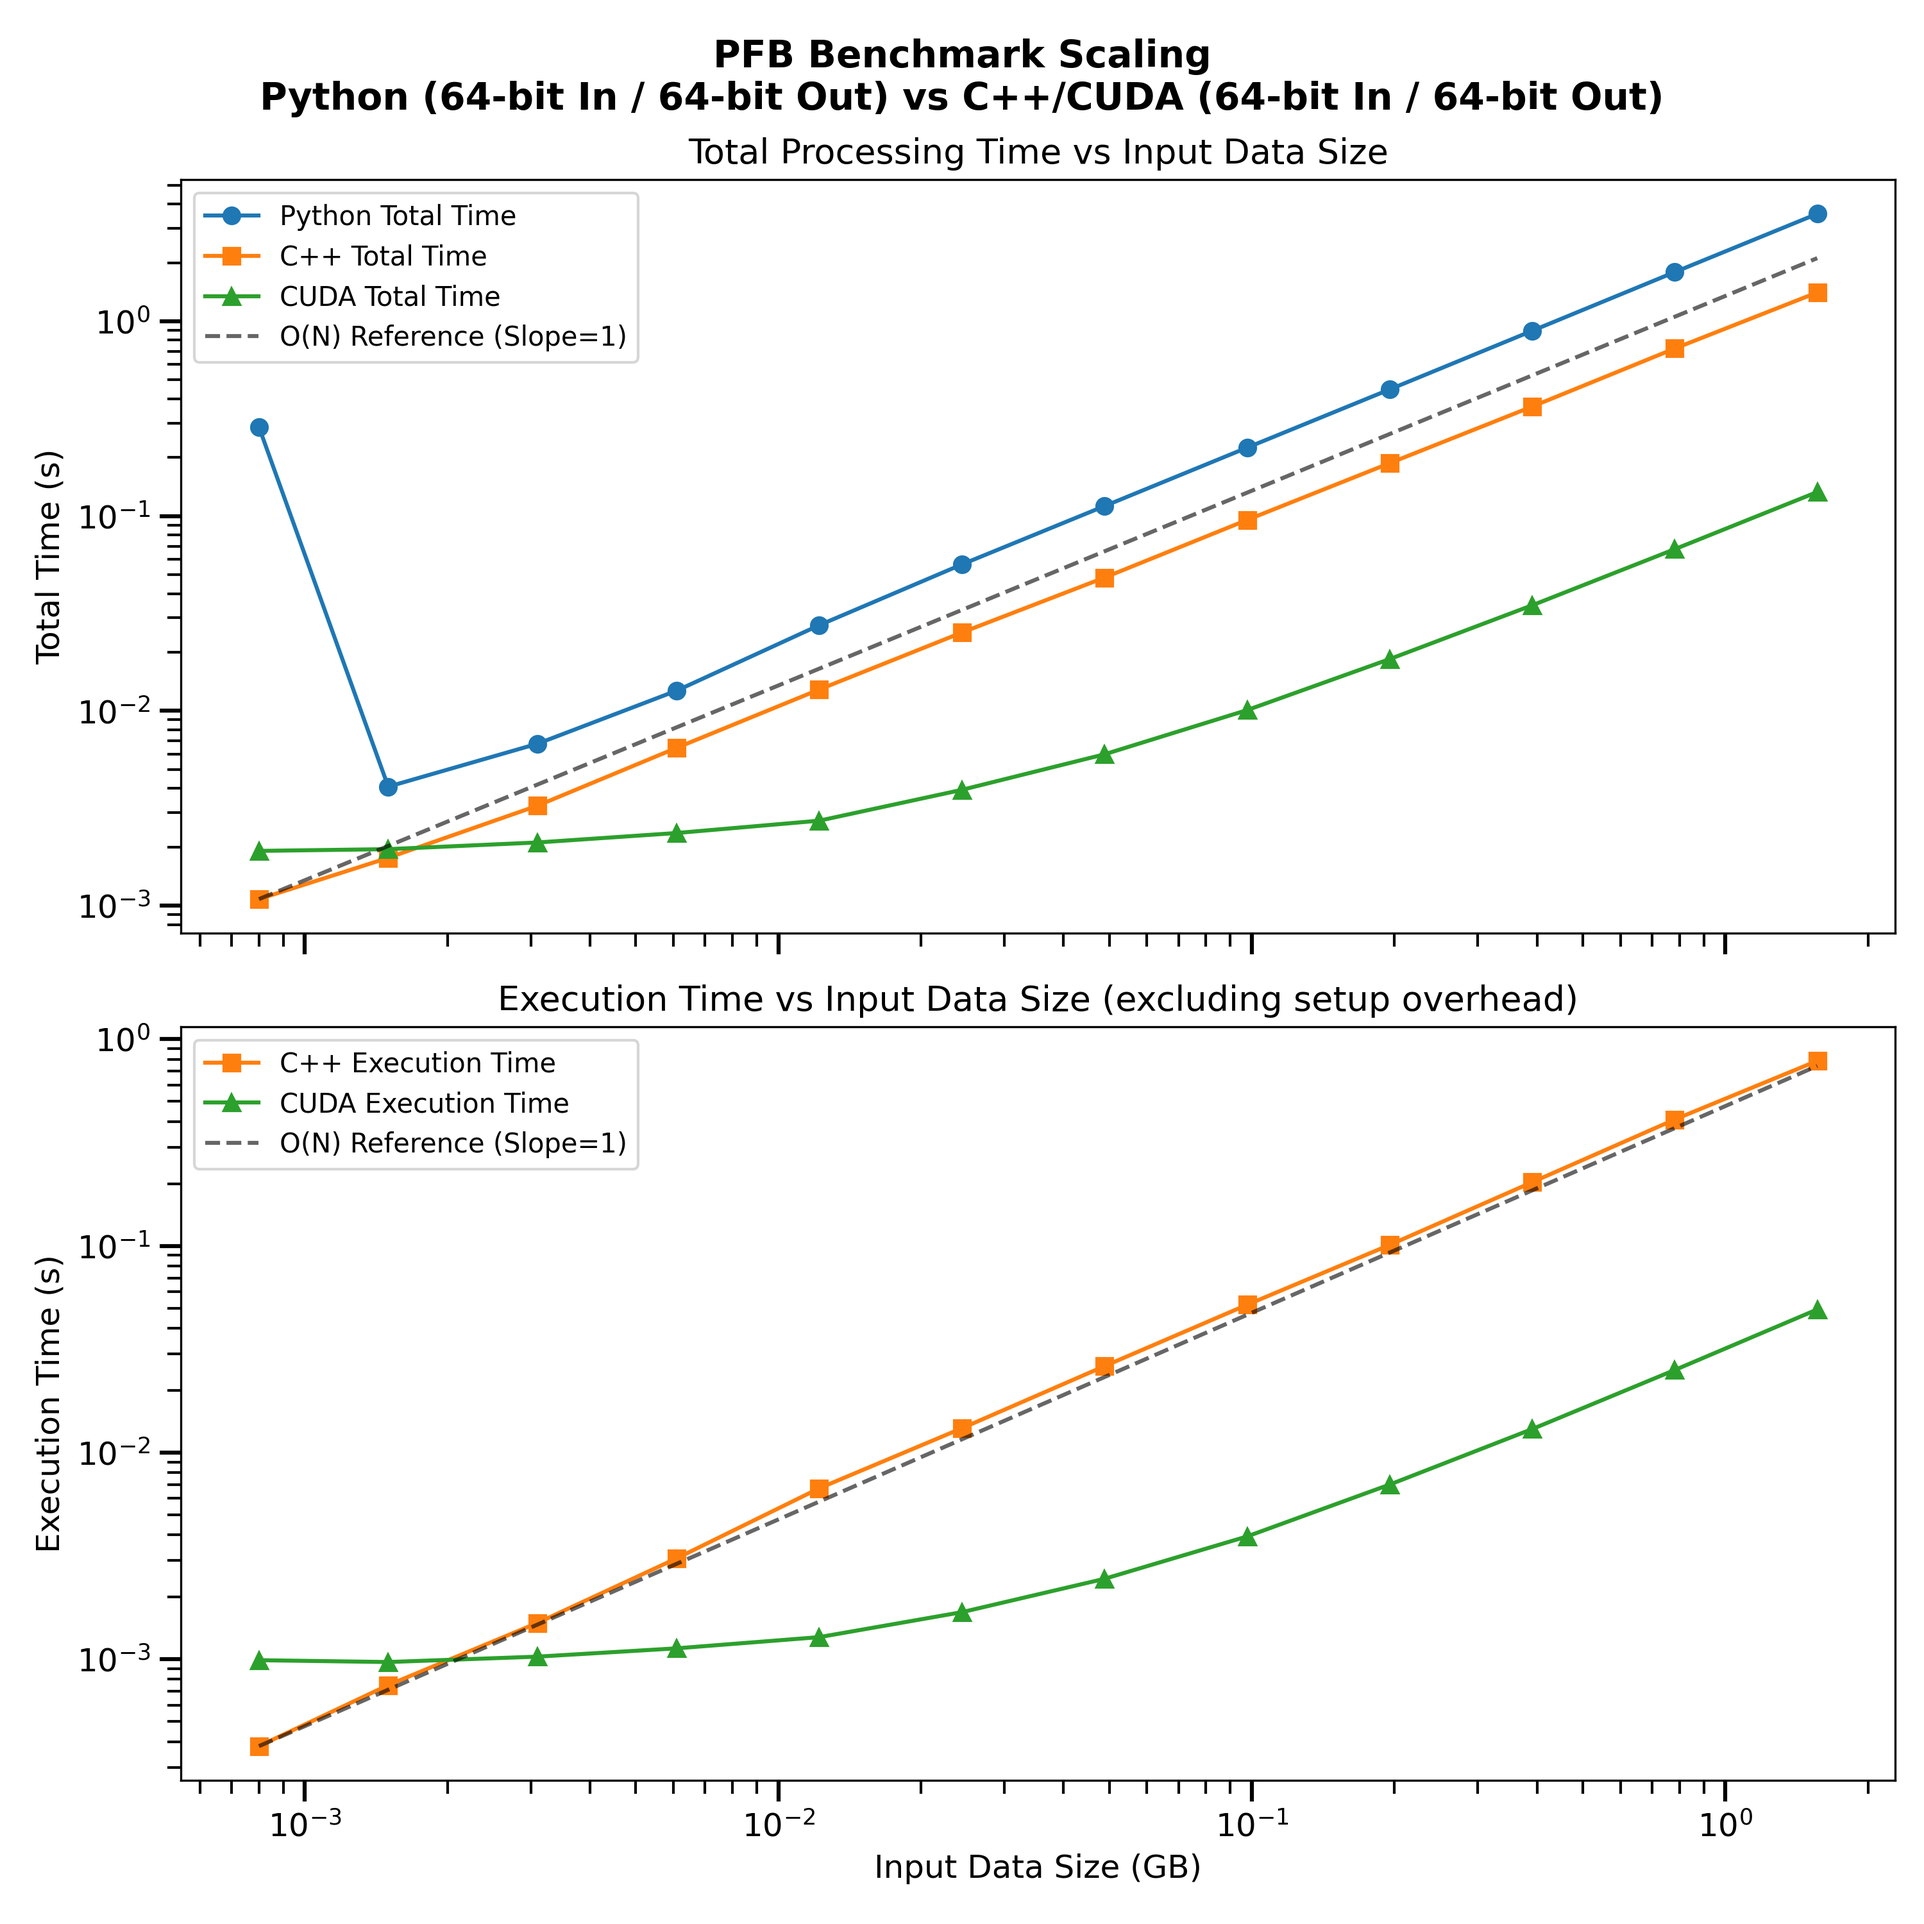
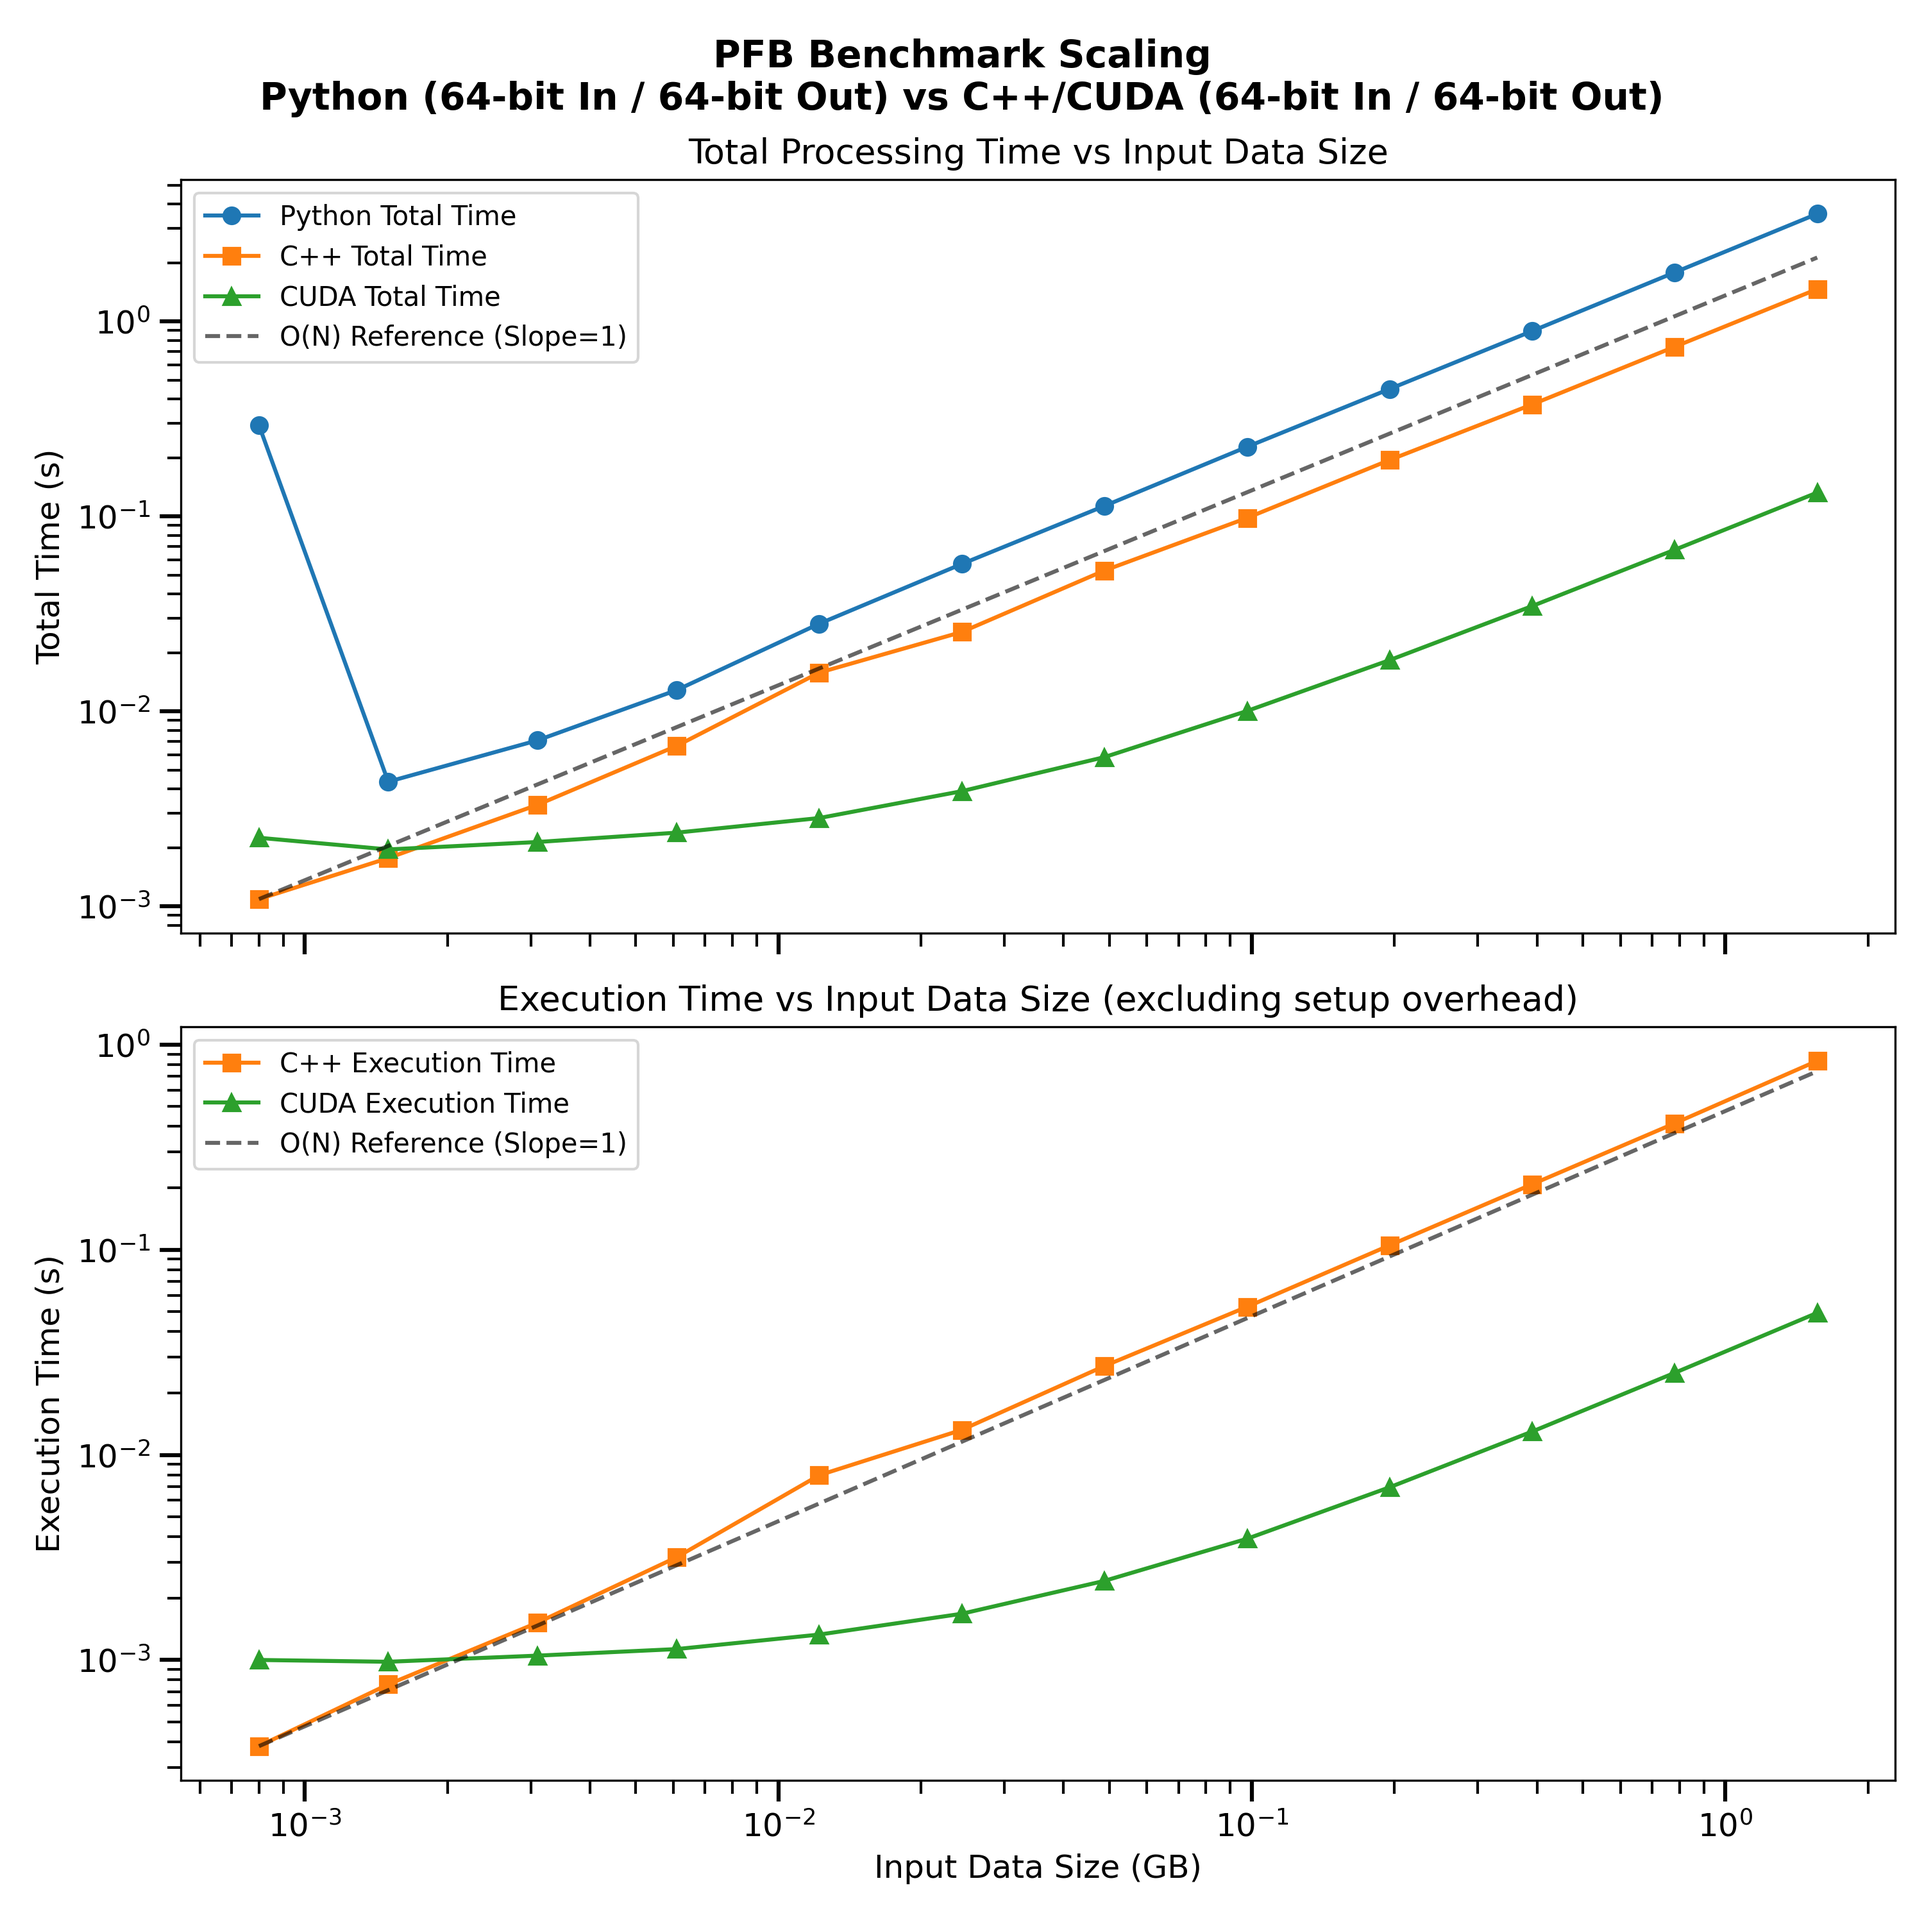
Added symmetric filter

diff --git a/PFB_CPU/codes/PFB_python/python_c_comparison.py b/PFB_CPU/codes/PFB_python/python_c_comparison.py
@@ -287,8 +287,8 @@ if __name__ == "__main__":
     
     in_NBIT_python = 64
     out_NBIT_python = 64 
-    in_NBIT_cpp = 32
-    out_NBIT_cpp = 32
+    in_NBIT_cpp = 64
+    out_NBIT_cpp = 64
     
     # Easily toggle Python execution on or off here
     run_python_baseline = True
